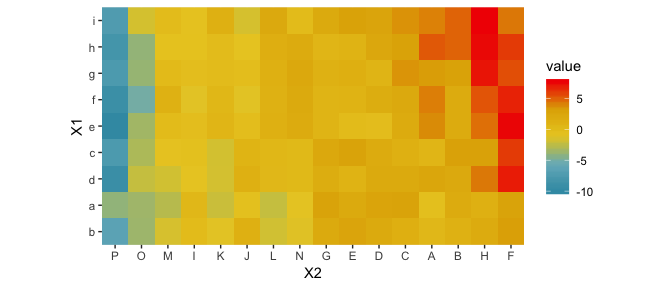
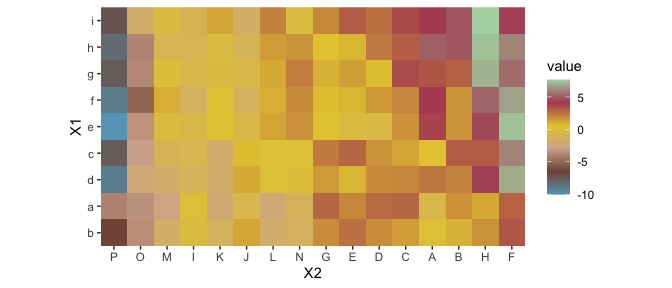
working out kinks

diff --git a/README.md b/README.md
@@ -1,114 +1,72 @@
 <!-- README.md is generated from README.Rmd. Please edit that file -->
-Wes Anderson Palettes
-=====================
 
-[![Build
-Status](https://travis-ci.org/karthik/wesanderson.png)](https://travis-ci.org/karthik/wesanderson)  
-![CRAN Downloads](http://cranlogs.r-pkg.org/badges/wesanderson)
+# Horror Movie Insprired Palettes
 
-![](rushmore.jpg)
-
-> I saved you from boring plots. What did you ever do? - Max Fischer
-> (probably)
-
-Tired of generic mass produced palettes for your plots? Short of adding
-an owl and dressing up your plot in a bowler hat, here’s the most indie
-thing you can do to one. First round of palettes derived from the
-amazing Tumblr blog [Wes Anderson
-Palettes.](http://wesandersonpalettes.tumblr.com/)
-
-Installation
-------------
+## Installation
 
 ``` r
-install.packages("wesanderson")
+install.packages("horroR")
 ```
 
 **Or the development version**
 
 ``` r
-devtools::install_github("karthik/wesanderson")
+devtools::install_github("jacobjameson/horroR")
 ```
 
-Usage
------
+## Usage
 
 ``` r
-library("wesanderson")
-
-# See all palettes
-names(wes_palettes)
-#>  [1] "BottleRocket1"  "BottleRocket2"  "Rushmore1"      "Rushmore"      
-#>  [5] "Royal1"         "Royal2"         "Zissou1"        "Darjeeling1"   
-#>  [9] "Darjeeling2"    "Chevalier1"     "FantasticFox1"  "Moonrise1"     
-#> [13] "Moonrise2"      "Moonrise3"      "Cavalcanti1"    "GrandBudapest1"
-#> [17] "GrandBudapest2" "IsleofDogs1"    "IsleofDogs2"
+library("horroR")
+names(horroR_palettes)
+#> [1] "Suspiria"             "Coraline"             "Scream"              
+#> [4] "NightmareOnElmStreet" "TheShining"           "TheNeonDemon"        
+#> [7] "Midsommar"
 ```
 
-Palettes
---------
+## Palettes
 
-### Bottle Rocket (1996)
+### Suspiriam (2018)
 
 ``` r
-wes_palette("BottleRocket1")
+horroR_palette("Suspiria")
 ```
 
-![](figure/bottlerocket1-1.png)
+![](figure/Suspiria-1.png)
+
+### Midsommar (2019)
 
 ``` r
-wes_palette("BottleRocket2")
+horroR_palette("Midsommar")
 ```
 
-![](figure/bottlerocket1-2.png)
+![](figure/Midsommar-1.png)
 
-### Rushmore (1998)
+### The Neon Demono (2016)
 
 ``` r
-wes_palette("Rushmore1")
+horroR_palette("TheNeonDemon")
 ```
 
-![](figure/rushmore-1.png)
-
-### The Royal Tenenbaums (2001)
-
-``` r
-wes_palette("Royal1")
-```
-
-![](figure/royal-1.png)
-
-``` r
-wes_palette("Royal2")
-```
-
-![](figure/royal-2.png)
+![](figure/TheNeonDemon-1.png)
 
 ``` r
 library("ggplot2")
 ggplot(mtcars, aes(factor(cyl), fill=factor(vs))) +  geom_bar() +
-  scale_fill_manual(values = wes_palette("Royal1"))
+  scale_fill_manual(values = horroR_palette("TheNeonDemon"))
 ```
 
 ![](figure/ggplot1-1.png)
 
-### The Life Aquatic with Steve Zissou (2004)
-
 ``` r
-wes_palette("Zissou1")
-```
-
-![](figure/lifeaquatic-1.png)
-
-``` r
-pal <- wes_palette("Zissou1", 21, type = "continuous")
+pal <- horroR_palette("TheNeonDemon", 21, type = "continuous")
 image(volcano, col = pal)
 ```
 
 ![](figure/volcano-1.png)
 
 ``` r
-pal <- wes_palette("Zissou1", 100, type = "continuous")
+pal <- horroR_palette("Midsommar", 100, type = "continuous")
 # heatmap is a local dataset
 ggplot(heatmap, aes(x = X2, y = X1, fill = value)) +
   geom_tile() + 
@@ -119,106 +77,3 @@ ggplot(heatmap, aes(x = X2, y = X1, fill = value)) +
 ```
 
 ![](figure/zissou_heatmap-1.png)
-
-### The Darjeeling Limited (2007)
-
-``` r
-wes_palette("Darjeeling1")
-```
-
-![](figure/darjeeling-1.png)
-
-``` r
-wes_palette("Darjeeling2")
-```
-
-![](figure/darjeeling-2.png)
-
-### Hotel Chevalier (2007)
-
-``` r
-wes_palette("Chevalier1")
-```
-
-![](figure/chevalier-1.png)
-
-### Fantastic Mr. Fox (2009)
-
-``` r
-wes_palette("FantasticFox1")
-```
-
-![](figure/fantasticfox-1.png)
-
-### Moonrise Kingdom (2012)
-
-``` r
-wes_palette("Moonrise1")
-```
-
-![](figure/moonrise-1.png)
-
-``` r
-wes_palette("Moonrise2")
-```
-
-![](figure/moonrise-2.png)
-
-``` r
-wes_palette("Moonrise3")
-```
-
-![](figure/moonrise-3.png)
-
-### Castello Cavalcanti (2013)
-
-``` r
-wes_palette("Cavalcanti1")
-```
-
-![](figure/castello-1.png)
-
-### The Grand Budapest Hotel (2014)
-
-``` r
-wes_palette("GrandBudapest1")
-```
-
-![](figure/grandbudapest-1.png)
-
-``` r
-wes_palette("GrandBudapest2")
-```
-
-![](figure/grandbudapest-2.png)
-
-### The Isle of Dogs (2018)
-
-``` r
-wes_palette("IsleofDogs1")
-```
-
-![](figure/isleofdogs-1.png)
-
-``` r
-wes_palette("IsleofDogs2")
-```
-
-![](figure/isleofdogs-2.png)
-
-As seen in these publications
------------------------------
-
--   [The environmental niche of the global high seas pelagic longline
-    fleet](http://advances.sciencemag.org/content/4/8/eaat3681) Science
-    Advances 08 Aug 2018
-
-![Imgur](https://i.imgur.com/gYKFwEc.jpg)
-
-![Imgur](https://i.imgur.com/3Ztc5Qa.png)
-
--   [Lopus, S., & Frye, M. (2018). Visualizing Africa’s Educational
-    Gender Gap. Socius: Sociological Research for a Dynamic World, 4,
-    237802311879595](http://journals.sagepub.com/doi/full/10.1177/2378023118795956)
-
-![Imgur](https://i.imgur.com/0BVNi9g.jpg)
